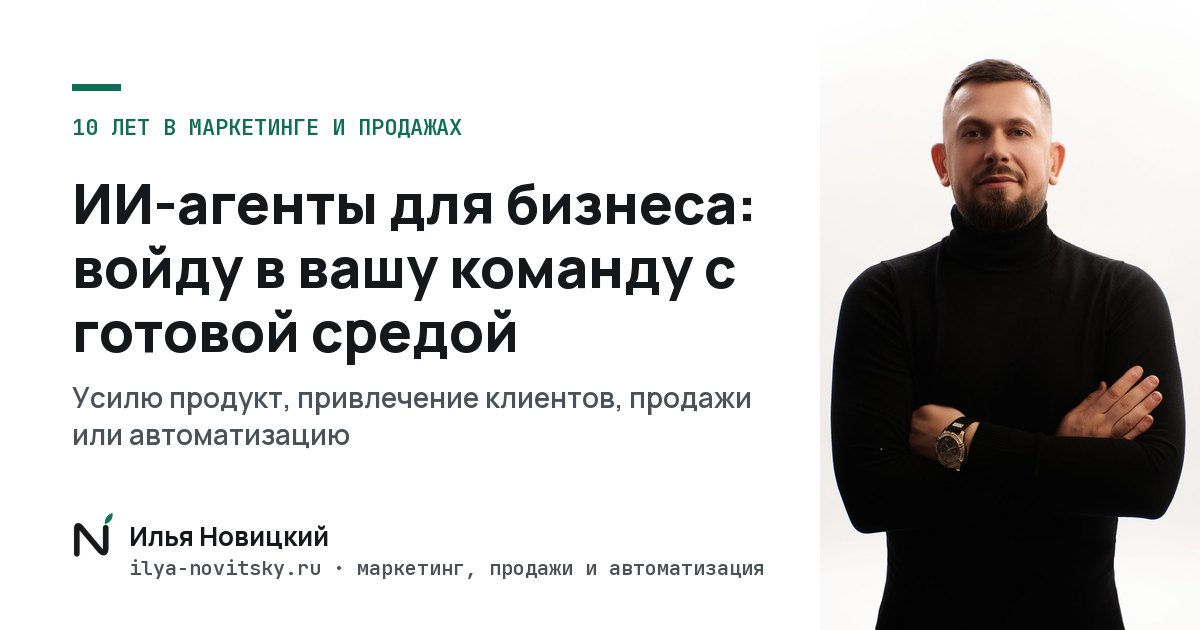
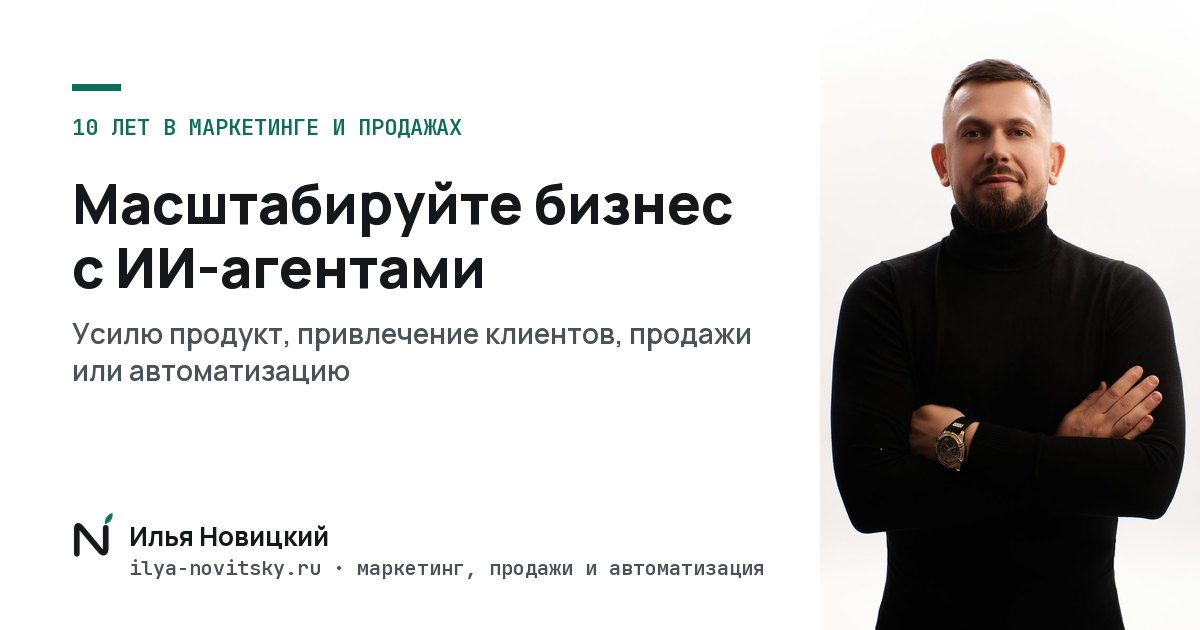
Главная, блок 1 (пилот zcode-стиль): центрированный экран, жирный+тонкий заголовок, бейджи, лёгкое меню, новые тексты и og

Changed region(s): [[0.0617, 0.2714, 0.6475, 0.7238]]

diff --git a/src/styles/pages/home.css b/src/styles/pages/home.css
@@ -251,3 +251,84 @@ section.team .team-own span{color:var(--dark-mut);font-size:13px;line-height:1.4
 .me-list small span{display:block}
 .me-list small b{display:inline-block;margin-right:6px;padding:2px 7px;border-radius:6px;background:rgba(127,211,182,.12);color:#7fd3b6;font:600 10.5px/1.5 var(--m);letter-spacing:.04em;text-transform:uppercase}
 @media(min-width:960px){.me-list small{min-height:0}}
+
+/* Пилот «дорогой вид» 06.11 (только главная): тёмный первый экран, тонкая крупная типографика, воздух. */
+section.hero{position:relative;overflow:hidden;background:#0b0e0d;color:#e9ecea;padding:100px 0 92px;border-top:0}
+section.hero::before{content:"";position:absolute;inset:0;background:radial-gradient(58% 52% at 76% 28%,rgba(47,181,138,.17),transparent 65%);pointer-events:none}
+section.hero .wrap{position:relative}
+section.hero .pill{background:rgba(255,255,255,.05);border:1px solid rgba(255,255,255,.14);color:#9fd3bf;font:500 12px/1 var(--m);letter-spacing:.03em}
+section.hero h1{font-weight:200;font-size:clamp(40px,5.6vw,76px);letter-spacing:-.03em;line-height:1.06;max-width:16ch;color:#fff}
+section.hero .lead{color:#a8b3ae;font-size:18px;max-width:33em}
+section.hero .btn.s{background:transparent;color:#e9ecea;border-color:rgba(255,255,255,.22)}
+section.hero .btn.s:hover{border-color:#7fd3b6;color:#7fd3b6}
+.hfacts{background:#0b0e0d;border-top:1px solid rgba(255,255,255,.08);padding:26px 0 32px}
+.hfacts .facts>div{border-top:1px solid rgba(127,211,182,.35)}
+.hfacts .facts b{color:#fff;font-weight:500}
+.hfacts .facts span{color:#8a9691}
+section{padding:110px 0}
+.section-head{margin-bottom:48px}
+.section-head h2{font-weight:300;letter-spacing:-.025em}
+.section-head .snum{font-weight:500;letter-spacing:.12em}
+@media(max-width:720px){section{padding:76px 0}section.hero{padding:64px 0 56px}section.hero h1{font-size:clamp(34px,9vw,44px)}}
+
+/* Пилот v2 06.11: центрированный первый экран, одна мысль, одна кнопка. */
+section.hero .hero-grid{display:block;max-width:960px;text-align:center}
+section.hero .role{justify-content:center}
+section.hero h1{max-width:none;font-size:clamp(38px,5.6vw,80px);font-weight:200;line-height:1.08}
+section.hero .lead{max-width:44em;margin:22px auto 30px;font-weight:300;font-size:19px}
+section.hero .cta-row{justify-content:center}
+section.hero::before{background:radial-gradient(55% 50% at 50% 18%,rgba(47,181,138,.18),transparent 65%)}
+#team .env{max-width:860px;margin:0 auto 28px}
+
+/* Пилот v3 06.11: бейджи возле заголовка, полоса фактов убрана. */
+section.hero .hh{position:relative}
+section.hero .hb-w{position:absolute;inset:0;pointer-events:none}
+section.hero .hb{position:absolute;top:50%;font:600 15px/1 var(--m);padding:13px 18px;border-radius:14px;background:rgba(255,255,255,.06);border:1px solid rgba(127,211,182,.35);color:#cfeee3;white-space:nowrap}
+section.hero .hb.bl{left:-30px;transform:translateY(-50%) rotate(-7deg)}
+section.hero .hb.br{right:-30px;transform:translateY(-50%) rotate(6deg)}
+@media(max-width:1100px){section.hero .hb-w{position:static;display:flex;justify-content:center;gap:14px;margin-top:20px}section.hero .hb{position:static}section.hero .hb.bl{transform:rotate(-4deg)}section.hero .hb.br{transform:rotate(4deg)}}
+
+/* Пилот v4 06.11: бейджи в стиле zcode (градиент и свечение), контрастная кнопка, читаемый лид. */
+section.hero .hb{font-size:17px;font-weight:600;padding:15px 22px;border-radius:16px;letter-spacing:.01em}
+section.hero .hb.bl{background:linear-gradient(135deg,#202c28,#101715);border:1px solid rgba(127,211,182,.4);color:#cfeee3;box-shadow:0 18px 40px -12px rgba(47,181,138,.35)}
+section.hero .hb.br{background:linear-gradient(135deg,#35c795,#0F6E56);border:0;color:#fff;box-shadow:0 18px 44px -10px rgba(47,181,138,.55)}
+section.hero .lead{font-weight:400;color:#b9c4bf}
+section.hero .btn.p{background:#3bd39f;color:#05231a;font-weight:700}
+section.hero .btn.p:hover{background:#55e2b2;color:#05231a}
+
+/* Пилот v5 06.11: лид одной строкой + мелкое описание, кнопка фирменная со свечением. */
+section.hero .lead{margin:22px auto 12px}
+section.hero .sub{color:#8a9691;font-size:16px;line-height:1.55;max-width:46em;margin:0 auto 30px}
+section.hero .btn.p{background:var(--acc);color:#fff;box-shadow:0 0 0 1px rgba(127,211,182,.35),0 18px 50px -12px rgba(47,181,138,.55)}
+section.hero .btn.p:hover{background:#0c5a46;box-shadow:0 0 0 1px rgba(127,211,182,.5),0 22px 56px -12px rgba(47,181,138,.7)}
+
+/* Пилот v6 06.11: бейджи ближе к заголовку, фон чёрный. */
+section.hero{background:#000}
+section.hero .hb.bl{left:0}
+section.hero .hb.br{right:0}
+section.hero{background:var(--dark)}
+
+/* Пилот v7 06.11: жирный + тонкий заголовок, бейджи не налезают, мобильный лид мельче. */
+section.hero h1{font-weight:600}
+section.hero h1 .thin{font-weight:200}
+section.hero .hero-grid{max-width:1100px}
+section.hero .hh{padding:0 140px}
+section.hero .lead{margin:22px auto 12px}
+@media(max-width:1100px){section.hero .hh{padding:0}}
+@media(max-width:720px){section.hero .lead{font-size:16px}section.hero .sub{font-size:14px}}
+
+/* Пилот v7 06.11: жирный + тонкий в заголовке, бейджи в потоке (без налезания), подзаголовок мельче на телефоне. */
+section.hero .hh{display:flex;align-items:center;justify-content:center;gap:22px}
+section.hero h1{font-weight:700;max-width:780px}
+section.hero h1 .th{font-weight:200}
+section.hero .hb{position:static;flex:0 0 auto}
+section.hero .hb.bl{transform:rotate(-6deg)}
+section.hero .hb.br{transform:rotate(5deg)}
+@media(max-width:1100px){section.hero .hh{flex-wrap:wrap}section.hero h1{order:1;flex-basis:100%}section.hero .hb.bl{order:2}section.hero .hb.br{order:3}}
+@media(max-width:720px){section.hero .lead{font-size:16px}section.hero .sub{font-size:14px}}
+section.hero h1 .thin{font-weight:200}
+
+/* Пилот v8 06.11: бейджи аккуратнее, pill в одну строку. */
+section.hero .hb{font-size:14px;font-weight:500;padding:10px 16px;border-radius:12px}
+section.hero .pill{white-space:nowrap}
+@media(max-width:720px){section.hero .pill{font-size:10px;padding:6px 10px;letter-spacing:.01em}}

diff --git a/src/components/home/Hero.tsx b/src/components/home/Hero.tsx
@@ -1,29 +1,26 @@
 import { home } from "@content/pages/home";
-import EnvScheme from "./EnvScheme";
 
-// Первый экран v9: оффер «войду в команду», две кнопки; справа — схема ИИ-среды (Илья → директор → 8 отделов) и пример ленты задач.
-// Три факта — отдельной тонкой полосой под экраном, чтобы не грузить первый экран (решение Ильи 23.10).
+// Первый экран v10 (пилот 06.11): центрированная композиция — pill, заголовок с бейджами по бокам, лид, одна кнопка.
+// Схема ИИ-среды перенесена в блок 01 «Моя ИИ-среда», полоса фактов убрана: цифры — в бейджах и блоке доказательств.
 export default function Hero() {
 	const c = home.hero;
 	return (
-		<>
-			<section className="hero">
-				<div className="wrap hero-grid">
-					<div>
-						<div className="role"><span className="pill">{c.pill}</span></div>
-						<h1>{c.h1}</h1>
-						<p className="lead">{c.lead}</p>
-						<div className="cta-row">
-							<a className="btn p" href="#contact" data-goal="cta_start">{c.primary}</a>
-							<a className="btn s" href="#extra">{c.secondary}</a>
-						</div>
+		<section className="hero">
+			<div className="wrap hero-grid">
+				<div>
+					<div className="role"><span className="pill">{c.pill}</span></div>
+					<div className="hh">
+						<span className="hb bl" aria-hidden="true">19 агентов</span>
+						<h1>{c.h1} <span className="thin">{c.h1Thin}</span></h1>
+						<span className="hb br" aria-hidden="true">1 управленец</span>
 					</div>
-					<EnvScheme />
+					<p className="lead">{c.lead}</p>
+					<p className="sub">{c.sub}</p>
+					<div className="cta-row">
+						<a className="btn p" href="#contact" data-goal="cta_start">{c.primary}</a>
+					</div>
 				</div>
-			</section>
-			<div className="hfacts">
-				<div className="wrap facts">{c.facts.map((f) => <div key={f.num}><b>{f.num}</b><span>{f.text}</span></div>)}</div>
 			</div>
-		</>
+		</section>
 	);
 }

diff --git a/content/pages/home.ts b/content/pages/home.ts
@@ -7,14 +7,16 @@ import { services } from "./kak-my-rabotaem";
 
 export const home = typo({
 	meta: {
-		title: "ИИ-агенты для бизнеса: войду в вашу команду с готовой средой · Илья Новицкий",
-		description: "Внедрение ИИ в бизнес без найма отдела: войду в вашу команду со средой из 19 ИИ-агентов. Автоматизация бизнес-процессов, продаж и маркетинга. Разбор бесплатно.",
+		title: "Масштабируйте бизнес с ИИ-агентами · Илья Новицкий",
+		description: "Внедрю ИИ-агентов в вашу текущую команду и буду управлять ими сам: продукт, привлечение клиентов, продажи, автоматизация. Без новых людей и подрядчиков. Разбор бесплатно.",
 	},
 
 	hero: {
 		pill: "Илья Новицкий · 10 лет в маркетинге и продажах",
-		h1: "Войду в вашу команду с готовой средой из 19\u00a0ИИ-агентов",
-		lead: "Усилю то, что сейчас тормозит: продукт, привлечение клиентов, продажи или автоматизацию бизнес-процессов. Вы не тратитесь на лишних подрядчиков и найм, а своё время отдаёте тому, ради чего начинали бизнес.",
+		h1: "Масштабируйте бизнес",
+		h1Thin: "с ИИ-агентами",
+		lead: "Внедрю ИИ-агентов в вашу текущую команду и буду управлять ими сам",
+		sub: "Они делают ту же работу быстрее и без вашего времени: контент, клиенты, сайт, анализ. Вы масштабируете бизнес без новых людей и подрядчиков.",
 		primary: "Разобрать задачу бесплатно",
 		secondary: "Отдельные задачи и цены",
 		env: {

diff --git a/src/components/layout/Header.tsx b/src/components/layout/Header.tsx
@@ -25,10 +25,9 @@ export default function Header() {
 	return (
 		<header className={hide && !open ? "top hide" : "top"}>
 			<div className="wrap">
-				<Link className="brand" href="/">
-					<BrandMark />
-					{site.name}
-				</Link>
+					<Link className="brand" href="/" aria-label={site.name}>
+						<BrandMark />
+					</Link>
 				<nav className="nav">
 					{site.nav.map((i) => (
 						<Link key={i.href} href={i.href}>
@@ -36,15 +35,11 @@ export default function Header() {
 						</Link>
 					))}
 				</nav>
-				<div className="cta-row">
-					<a className="btn p" href={site.contacts.telegram} target="_blank" rel="noopener" >
-						<span className="full">{common.ui.headerStart}</span>
-						<span className="short">{common.ui.headerShort}</span>
-					</a>
-					<button className="burger" aria-label={common.ui.menu} aria-expanded={open} onClick={() => setOpen(!open)}>
-						<span></span>
-					</button>
-				</div>
+					<div className="cta-row">
+						<button className="burger" aria-label={common.ui.menu} aria-expanded={open} onClick={() => setOpen(!open)}>
+							<span></span>
+						</button>
+					</div>
 			</div>
 			<div className={open ? "menu open" : "menu"} id="m">
 				{site.menu.map((i) => (

diff --git a/src/components/home/Team.tsx b/src/components/home/Team.tsx
@@ -1,6 +1,7 @@
 import { home } from "@content/pages/home";
 import { site } from "@/config/site";
 import SectionHead from "@/components/ui/SectionHead";
+import EnvScheme from "./EnvScheme";
 
 const plural = (n: number, [one, few, many]: string[]) => (n % 10 === 1 && n % 100 !== 11 ? one : n % 10 >= 2 && n % 10 <= 4 && (n % 100 < 12 || n % 100 > 14) ? few : many);
 
@@ -12,6 +13,7 @@ export default function Team() {
 		<section id="team" className="team">
 			<div className="wrap">
 				<SectionHead num={c.num} label={c.label} title={c.h2} lead={c.lead} />
+				<EnvScheme />
 				<p className="team-note"><b>{c.note.split(": ")[0]}:</b> {c.note.split(": ").slice(1).join(": ")}</p>
 				<div className="tflow" aria-label={c.flowLabel}>
 					<p className="lbl">{c.flowLabel}</p>

diff --git a/src/styles/base.css b/src/styles/base.css
@@ -761,3 +761,7 @@ section.dark .tflow small,section.dark .tflow li > div small{color:#aab3b0}
 section.dark .chain{color:var(--ink)}
 section.dark .chain b,section.dark .chain h3{color:var(--ink)}
 section.dark .kpath .ky{color:#7fd3b6}
+
+/* Шапка в стиле zcode (06.11): лого без имени, ссылки мельче и не жирные, кнопки заявки нет. */
+.top .nav{font-weight:500;font-size:14px}
+.top .menu a{font-weight:500;font-size:14px}
